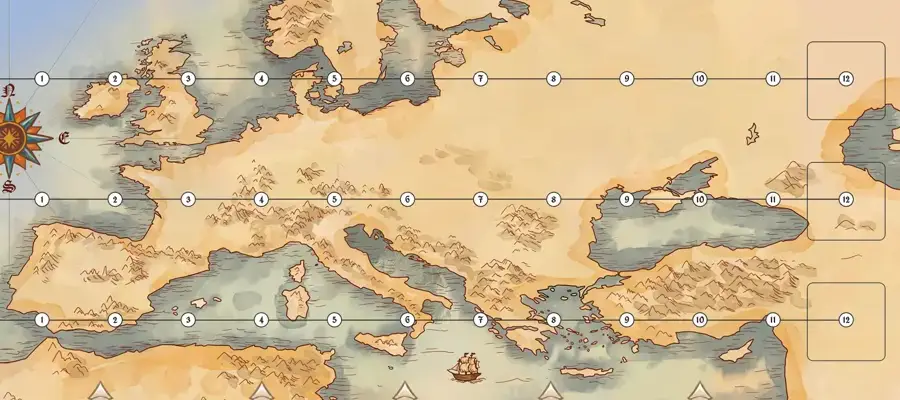
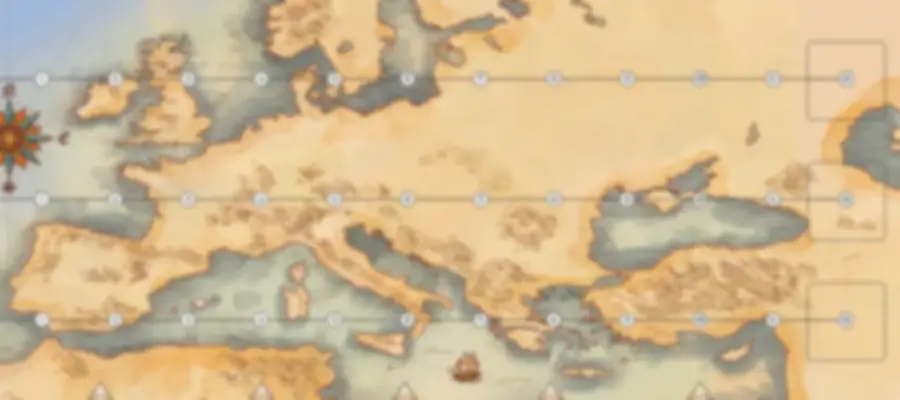
Travel tracks: transparent empty cells as dots on a dotted path
Claude-Session: https://claude.ai/code/session_01SHozX5uoHGRuhfGKpzG4bC

diff --git a/ui.js b/ui.js
@@ -211,7 +211,7 @@ function render(){
     const line=el('div',{class:'track'},el('div',{class:'lab'},el('img',{src:'tok/country_'+COUNTRY_IMG[cn]+'.webp',alt:''}),el('span',{},el('b',{},E.TR[ti]+' '),t('C_'+cn))));
     for(let n=0;n<=12;n++){
       const cy=C.cities.find(c=>c[0]===n);
-      const cell=el('div',{class:'cell'+(cy?' city':'')+(n===12?' finish':''),title:cy?t('CY_'+cy[1])+' : '+t('CE_'+cy[1]):t('ui_cell',n)});
+      const cell=el('div',{class:'cell'+(cy?' city':' plain')+(n===12?' finish':''),title:cy?t('CY_'+cy[1])+' : '+t('CE_'+cy[1]):t('ui_cell',n)});
       if(moveOpt[ti]!==undefined && n===mePl.trav[ti]+1){ cell.classList.add('target'); const k=moveOpt[ti]; cell.addEventListener('click',ev=>{ ev.stopImmediatePropagation(); act(k); }); }
       if(cy){ cell.style.backgroundImage='url(city/'+cy[1]+'.webp)'; cell.addEventListener('click',()=>zoomImg('city/'+cy[1]+'.webp',t('CY_'+cy[1])+' ('+n+')',t('CE_'+cy[1]))); }
       else cell.appendChild(el('span',{class:'n'},n||'⚑'));

diff --git a/index.html b/index.html
@@ -286,6 +286,14 @@ button.small{padding:3px 10px;font-size:14px}
 .slot>*{position:relative;z-index:1}
 .slot>.cost{position:absolute;z-index:2}
 .rowwrap{gap:20px;padding-top:30px;padding-left:4px;padding-right:10px}
+.track{position:relative}
+.track::before{content:"";position:absolute;left:calc(120px + (100% - 120px)/26);right:calc((100% - 120px)/26);top:50%;border-top:2.5px dotted rgba(70,38,12,.55);z-index:0;pointer-events:none}
+@media(max-width:700px){.track::before{left:calc(70px + (100% - 70px)/26);right:calc((100% - 70px)/26)}}
+.track>.cell{z-index:1}
+.travelp .cell.plain{background:transparent;border:none;box-shadow:none}
+.cell.plain::after{content:"";position:absolute;left:50%;top:50%;width:9px;height:9px;margin:-4.5px 0 0 -4.5px;border-radius:50%;background:#2a1a0e;box-shadow:0 0 0 2px rgba(255,246,223,.7);z-index:0}
+.cell.plain .n{opacity:.45;font-size:10px}
+.cell.plain .travs{position:relative;z-index:1}
 </style>
 </head>
 <body>
